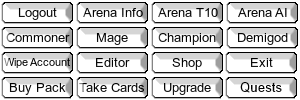
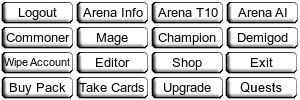
Updated buttons with new graphics for click and mouseover, as well as modified button code so it all works smoothly. Fixed Quantum pendulums so they generete 3 "other" quantum.

diff --git a/ui.main.js b/ui.main.js
@@ -691,7 +691,7 @@ function victoryScreen(goldreward, cardreward) {
     var posY = game.cardreward ? 130 : 250;
     tinfo = makeText(posX, posY, victoryText, true);
     tinfo.anchor.x = 0.5;
-    var bexit = makeButton(420,430, 75, 18, buttons[11]);
+    var bexit = makeButton(420,430, 75, 18, buttons.exit);
     bexit.click = function () {
         if (game.cardreward) {
             userEmit("addcard", { c: game.cardreward });
@@ -1004,16 +1004,48 @@ rarityLoader.onComplete = function() {
 }
 rarityLoader.load();
 
-var buttons = [];
-var buttonLoader = new PIXI.AssetLoader(["assets/buttons.png"]);
-buttonLoader.onComplete = function() {
-	var tex = PIXI.Texture.fromImage("assets/buttons.png");
-	for (var i = 0; i < 4; i++) {
-		for (var j = 0; j < 4; j++) {
-			buttons.push(new PIXI.Texture(tex, new PIXI.Rectangle(j*75, i*25, 75, 25)));
-		}
-	}
+var buttonsList = [];
+var buttonsClicked = [];
+var buttonsMouseOver = [];
+var buttons = {};
+var buttonLoader = new PIXI.AssetLoader(["assets/buttons.png", "assets/buttons_mouseover.png", "assets/buttons_clicked.png"]);
+buttonLoader.onComplete = function () {
+    var tex = PIXI.Texture.fromImage("assets/buttons.png");
+    var texClick = PIXI.Texture.fromImage("assets/buttons_clicked.png");
+    var texOver = PIXI.Texture.fromImage("assets/buttons_mouseover.png");
+    for (var i = 0; i < 4; i++) {
+        for (var j = 0; j < 4; j++) {
+            buttonsList.push(new PIXI.Texture(tex, new PIXI.Rectangle(j * 75, i * 25, 75, 25)));
+            buttonsMouseOver.push(new PIXI.Texture(texOver, new PIXI.Rectangle(j * 75, i * 25, 75, 25)));
+            buttonsClicked.push(new PIXI.Texture(texClick, new PIXI.Rectangle(j * 75, i * 25, 75, 25)));
+        }
+    }
+    buttons = {
+        logout: buttonsList[0],
+        arenainfo: buttonsList[1],
+        arenat10: buttonsList[2],
+        arenaai: buttonsList[3],
+        commoner: buttonsList[4],
+        mage: buttonsList[5],
+        champion: buttonsList[6],
+        demigod: buttonsList[7],
+        wipeaccount: buttonsList[8],
+        editor: buttonsList[9],
+        shop: buttonsList[10],
+        exit: buttonsList[11],
+        buypack: buttonsList[12],
+        takecards: buttonsList[13],
+        upgrade: buttonsList[14],
+        quests: buttonsList[15]
+}
 	maybeStartMenu();
+}
+
+function buttonArtClicked(button) {
+    return buttonsClicked[buttonsList.indexOf(button)];
+}
+function buttonArtMouseover(button) {
+    return buttonsMouseOver[buttonsList.indexOf(button)];
 }
 buttonLoader.load();
 
@@ -1036,13 +1068,27 @@ popupLoader.onComplete = function() {
 }
 popupLoader.load();
 
-function makeButton(x, y, w, h, i) {
+function makeButton(x, y, w, h, i, mouseoverfunc) {
 	var b = new PIXI.Sprite(i);
 	b.position.set(x, y);
 	b.interactive = true;
 	b.hitArea = new PIXI.Rectangle(0, 0, w, h);
 	b.buttonMode = true;
-	
+	b.standardImage = i;
+	if (~buttonsList.indexOf(i)){
+	    b.mousedown = function() {
+	        b.setTexture(buttonArtClicked(b.standardImage));
+	    }
+	    b.mouseover = b.mouseup = function() {
+	        if (mouseoverfunc) mouseoverfunc();
+	        console.log("standard=" + i + ", new=" + buttonArtMouseover(b.standardImage))
+	        b.setTexture(buttonArtMouseover(b.standardImage));
+	    }
+	    b.mouseout = function () {
+	        b.setTexture(b.standardImage);
+	    }
+	}
+
 	return b;
 }
 
@@ -1071,7 +1117,9 @@ function maybeStartMenu() {
 }
 function startMenu() {	
 	menuui = new PIXI.Stage(0x000000, true);
-		
+	var buttonList = [];
+	var mouseroverButton;
+	var clickedButton;
 	//lobby background
 	var bglobby = new PIXI.Sprite(backgrounds[1]);
 	bglobby.interactive = true;
@@ -1107,55 +1155,54 @@ function startMenu() {
 	menuui.addChild(igold2);
 	
 	//ai0 button
-	var bai0 = makeButton(50, 100, 75, 25, buttons[4]);
+	var bai0 = makeButton(50, 100, 75, 25, buttons.commoner, function () {
+	    tinfo.setText("Commoners have no upgraded cards.");
+	    tcost.setText("Cost:     0");
+	    igold2.visible = true;
+	});
 	bai0.click = mkAi(1);
-	bai0.mouseover = function () {
-		tinfo.setText("Commoners have no upgraded cards.");
-		tcost.setText("Cost:     0");
-		igold2.visible = true;
-	}
 	menuui.addChild(bai0);
 	
 	//ai1 button
-	var bai1 = makeButton(150, 100, 75, 25, buttons[5]);
+	var bai1 = makeButton(150, 100, 75, 25, buttons.mage, function () {
+	    tinfo.setText("Mages have a few upgraded cards.");
+	    tcost.setText("Cost:     5");
+	    igold2.visible = true;
+	});
 	bai1.click = mkAi(2);
-	bai1.mouseover = function () {
-		tinfo.setText("Mages have a few upgraded cards.");
-		tcost.setText("Cost:     5");
-		igold2.visible = true;
-	}
 	menuui.addChild(bai1);
 	
 	//ai2 button
-	var bai2 = makeButton(250, 100, 75, 25, buttons[6]);
+	var bai2 = makeButton(250, 100, 75, 25, buttons.champion, function () {
+	    tinfo.setText("Champions have some upgraded cards.");
+	    tcost.setText("Cost:     10");
+	    igold2.visible = true;
+	});
 	bai2.click = mkAi(3);
-	bai2.mouseover = function () {
-		tinfo.setText("Champions have some upgraded cards.");
-		tcost.setText("Cost:     10");
-		igold2.visible = true;
-	}
 	menuui.addChild(bai2);
 
 	//ai3 button
-	var bai3 = makeButton(350, 100, 75, 25, buttons[7]);
+	var bai3 = makeButton(350, 100, 75, 25, buttons.demigod, function () {
+	    tinfo.setText("Demigods are extremely powerful. Come prepared for anything.");
+	    tcost.setText("Cost:     20");
+	    igold2.visible = true;
+	});
 	bai3.click = mkDemigod;
-	bai3.mouseover = function () {
-		tinfo.setText("Demigods are extremely powerful. Come prepared for anything.");
-		tcost.setText("Cost:     20");
-		igold2.visible = true;
-	}
 	menuui.addChild(bai3);
 	
     //Quests button
-	var bquest = makeButton(50, 145, 75, 25, buttons[15]);
-	bquest.click = startQuestWindow;
-	bquest.mouseover = function () {
+	var bquest = makeButton(50, 145, 75, 25, buttons.quests, function () {
 	    tinfo.setText("Go on adventure!");
-	}
+	});
+	bquest.click = startQuestWindow;
 	menuui.addChild(bquest);
 
 	//ai arena button
-	var baia = makeButton(50, 200, 75, 25, buttons[3]);
+	var baia = makeButton(50, 200, 75, 25, buttons.arenaai, function () {
+	    tinfo.setText("In the arena you will face decks from other players.");
+	    tcost.setText("Cost:     10");
+	    igold2.visible = true;
+	});
 	baia.click = function() {
 		if (Cards) {
 			if (!user.deck || user.deck.length < 31) {
@@ -1173,80 +1220,72 @@ function startMenu() {
 			userEmit("foearena");
 		}
 	}
-	baia.mouseover = function () {
-		tinfo.setText("In the arena you will face decks from other players.");
-		tcost.setText("Cost:     10");
-		igold2.visible = true;
-	}
 	menuui.addChild(baia);
 	
 	//arena info button
-	var binfoa = makeButton(50, 245, 75, 25, buttons[1]);
+	var binfoa = makeButton(50, 245, 75, 25, buttons.arenainfo, function () {
+	    tinfo.setText("Check how your arena deck is doing.")
+	    tcost.setText("");
+	});
 	binfoa.click = function(){
 		if (Cards){
 			userEmit("arenainfo");
 		}
 	}
-	binfoa.mouseover = function () {
-		tinfo.setText("Check how your arena deck is doing.")
-		tcost.setText("");
-	}
 	menuui.addChild(binfoa);
 	
 	//arena top10 button
-	var btopa = makeButton(150, 245, 75, 25, buttons[2]);
+	var btopa = makeButton(150, 245, 75, 25, buttons.arenat10, function () {
+	    tinfo.setText("Here you can see who the top players in arena are right now.")
+	    tcost.setText("");
+	});
 	btopa.click = function(){
 		if (Cards){
 			userEmit("arenatop");
 		}
 	}
-	btopa.mouseover = function () {
-		tinfo.setText("Here you can see who the top players in arena are right now.")
-		tcost.setText("");
-	}
 	menuui.addChild(btopa);
 	
 	//edit button
-	var bedit = makeButton(50, 300, 75, 25, buttons[9]);
+	var bedit = makeButton(50, 300, 75, 25, buttons.editor, function () {
+	    tinfo.setText("Here you can edit your deck, as well as submit an arena deck.");
+	    tcost.setText("");
+	});
 	bedit.click = startEditor;
-	bedit.mouseover = function () {
-		tinfo.setText("Here you can edit your deck, as well as submit an arena deck.");
-		tcost.setText("");
-	}
 	menuui.addChild(bedit);
 
-	var bshop = makeButton(150, 300, 75, 25, buttons[10]);
-	bshop.click = startStore;
-	bshop.mouseover = function () {
+	var bshop = makeButton(150, 300, 75, 25, buttons.shop, function () {
 	    tinfo.setText("Here you can buy booster packs which contains ten cards from the elements you choose.");
 	    tcost.setText("");
-	}
+	});
+	bshop.click = startStore;
 	menuui.addChild(bshop);
 
     //upgrade button
-	var bupgrade = makeButton(250, 300, 75, 18, buttons[14]);
-	bupgrade.click = upgradestore;
-	bupgrade.mouseover = function () {
+	var bupgrade = makeButton(250, 300, 75, 18, buttons.upgrade, function () {
 	    tinfo.setText("Here you can upgrade cards as well as buy upgraded Pillars");
 	    tcost.setText("");
-	}
+	});
+	bupgrade.click = upgradestore;
 	menuui.addChild(bupgrade);
 	
 	//logout button
-	var blogout = makeButton(750, 246, 75, 25, buttons[0]);
+	var blogout = makeButton(750, 246, 75, 25, buttons.logout, function () {
+	    tinfo.setText("Click here if you want to log out.")
+	    tcost.setText("");
+	});
 	blogout.click = function(){
 		userEmit("logout");
 		logout();
 		
 	}
-	blogout.mouseover = function () {
-		tinfo.setText("Click here if you want to log out.")
-		tcost.setText("");
-	}
 	menuui.addChild(blogout);
 	
 	//delete account button
-	var bdelete = makeButton(750, 550, 75, 25, buttons[8]);
+	var bdelete = makeButton(750, 550, 75, 25, buttons.wipeaccount, function () {
+	    tinfo.setText("Click here if you want to remove your account.")
+	    tcost.setText("");
+	});
 	bdelete.click = function(){
 		if (foename.value == user.name) {
 			userEmit("delete");
@@ -1254,10 +1293,6 @@ function startMenu() {
 		} else {
 			chatArea.value = "Input '" + user.name + "' into Challenge to delete your account";
 		}
-	}
-	bdelete.mouseover = function () {
-		tinfo.setText("Click here if you want to remove your account.")
-		tcost.setText("");
 	}
 	menuui.addChild(bdelete);
 	
@@ -1345,7 +1380,7 @@ function startQuestWindow() {
             }
         }
     }
-    var bexit = makeButton(750, 246, 75, 18, buttons[11]);
+    var bexit = makeButton(750, 246, 75, 18, buttons.exit);
     bexit.click = function () {
         startMenu();
     }
@@ -1408,12 +1443,12 @@ function upgradestore() {
     var goldcount = new PIXI.Text(user.gold + "g", { font: "bold 16px Dosis" });
     goldcount.position.set(30, 100);
     upgradeui.addChild(goldcount);
-    var bupgrade = makeButton(150, 100, 75, 18, buttons[14]);
+    var bupgrade = makeButton(150, 100, 75, 18, buttons.upgrade);
     bupgrade.click = function () {
         upgradeCard(CardCodes[selectedCard]);
     };
     upgradeui.addChild(bupgrade);
-    var bexit = makeButton(50, 50, 75, 18, buttons[11]);
+    var bexit = makeButton(50, 50, 75, 18, buttons.exit);
     bexit.click = function () {
         startMenu();
     };
@@ -1542,7 +1577,7 @@ function startStore() {
 	storeui.addChild(igold);
 
 	//get cards button
-	var bget = makeButton(750, 156, 75, 18, buttons[13]);
+	var bget = makeButton(750, 156, 75, 18, buttons.takecards);
 	toggleB(bget);
 	bget.click = function() {
 		userEmit("add", {add: etg.encodedeck(newCards)});
@@ -1558,7 +1593,7 @@ function startStore() {
 	storeui.addChild(bget);
 	
 	//exit button
-	var bexit = makeButton(750, 246, 75, 18, buttons[11]);
+	var bexit = makeButton(750, 246, 75, 18, buttons.exit);
 	bexit.click = function() {
 		if (isEmpty(newCards)) {
 			startMenu();
@@ -1570,7 +1605,7 @@ function startStore() {
 	storeui.addChild(bexit);
 	
 	//buy button
-	var bbuy = makeButton(750, 156, 75, 18, buttons[12]);
+	var bbuy = makeButton(750, 156, 75, 18, buttons.buypack);
 	bbuy.click = function() {
 		if (isEmpty(newCards)) {
 			if (user.gold >= cost) {

diff --git a/actives.js b/actives.js
@@ -1254,13 +1254,13 @@ yoink:function(c,t){
 	}
 },
 pillar:function(c,t){
-	if (!t)
-		c.owner.spend(c.card.element, -c.status.charges * (c.card.element > 0 ? 1 : 3));
-	else if (c==t) 
-		c.owner.spend(c.card.element, -(c.card.element > 0 ? 1 : 3));
+    if (!t)
+        c.owner.spend(c.card.element, -c.status.charges * (c.card.element > 0 ? 1 : 3));
+    else if (c == t)
+        c.owner.spend(c.card.element, -(c.card.element > 0 ? 1 : 3))
 },
 pend:function(c,t){
-	c.owner.spend(c.pendstate?c.owner.mark:c.card.element,-c.status.charges);
+    c.owner.spend(c.pendstate ? c.owner.mark : c.card.element, -c.status.charges * (c.card.element > 0 ? 1 : 3));
 	c.pendstate ^= true;
 },
 blockwithcharge:function(c,t){
